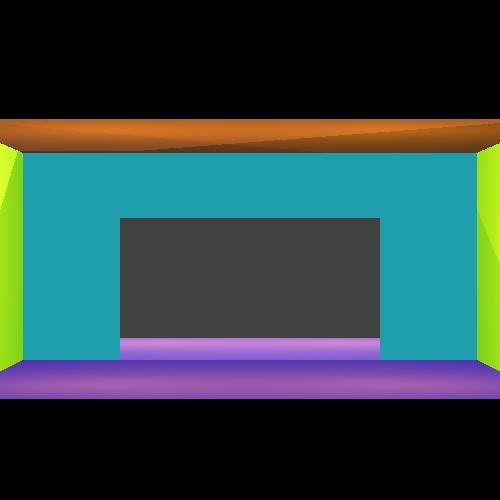
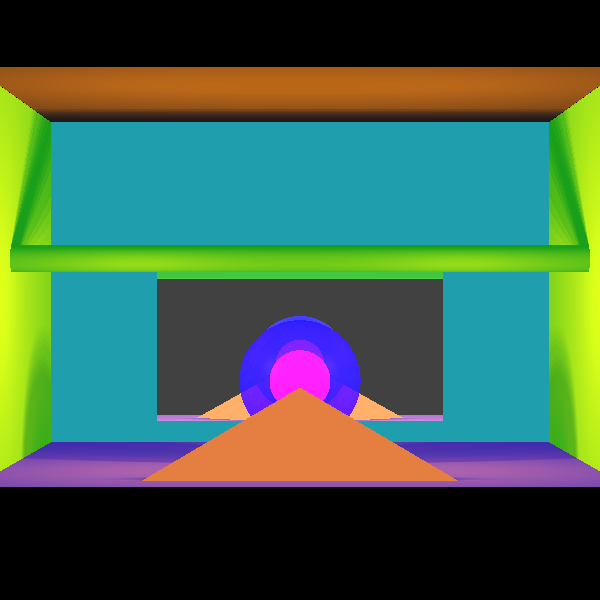
part of the final image completed

diff --git a/unitTests/miniProjects/SoftShadowTest.java b/unitTests/miniProjects/SoftShadowTest.java
@@ -316,7 +316,7 @@ public class SoftShadowTest {
     public void room() {
         Scene scene = new Scene.SceneBuilder("TestScene").build();
         Camera camera = new Camera(
-                        new Point(0, 500, 20),
+                        new Point(0, 550, 20),
                         new Vector(0, -1, 0),
                         new Vector(0, 0, 1))
                         .setVPSize(200, 200)
@@ -326,13 +326,63 @@ public class SoftShadowTest {
 
                 /////////           FLOOR                 ///////////
                 new Polygon(
-                        new Point(70,-40,-14),
-                        new Point(-70,-40,-14),
-                        new Point(-70,100,-14),
-                        new Point(70,100,-14))
+                        new Point(70,-40,-20),
+                        new Point(-70,-40,-20),
+                        new Point(-70,100,-20),
+                        new Point(70,100,-20))
                         .setEmission(new Color(0,0,74))
                         .setMaterial(new Material().setKd(1).setShininess(50))
                 ,
+
+                /////////             PYRAMID              ///////////
+
+                new Triangle(
+                        new Point(-35,85,-20),
+                        new Point(35,85,-20),
+                        new Point(0,70,0)
+                )
+                        .setEmission(new Color(100, 50, 20))
+                        .setMaterial(new Material().setKd(0.25).setKs(0.25).setShininess(20)),
+                new Triangle(
+                        new Point(-35,85,-20),
+                        new Point(0,55,-20),
+                        new Point(0,70,0)
+                )
+                        .setEmission(new Color(100, 50, 20))
+                        .setMaterial(new Material().setKd(0.25).setKs(0.25).setShininess(20)),
+                new Triangle(
+                        new Point(35,85,-20),
+                        new Point(0,55,-20),
+                        new Point(0,70,0)
+                )
+                        .setEmission(new Color(100, 50, 20))
+                        .setMaterial(new Material().setKd(0.25).setKs(0.25).setShininess(20)),
+
+
+                /////////            RANDOM BALLS          ///////////
+                new Sphere(
+                        15,
+                        new Point(0,30,0))
+                        .setEmission(new Color(BLUE))
+                        .setMaterial(new Material()
+                                .setKd(0.25)
+                                .setKs(0.25)
+                                .setShininess(20)
+                                .setKt(new Double3(0.5, 0, 0))
+                        )
+                        //.setMaterial(new Material().setKd(0.4).setKs(0.3).setShininess(100).setKt(0.3))
+                ,
+                new Sphere(
+                        7.5,
+                        new Point(0,30,0))
+                        .setEmission(new Color(RED))
+                        .setMaterial(new Material()
+                                .setKd(0.5)
+                                .setKs(0.5)
+                                .setShininess(100)
+                        )
+                ,
+
 
                 /////////           FLOOR - MIRROR                 ///////////
 //                new Polygon(
@@ -346,38 +396,51 @@ public class SoftShadowTest {
 
                 /////////           CEILING                 ///////////
                 new Polygon(
-                        new Point(70,-40,50),
-                        new Point(-70,-40,50),
-                        new Point(-70,100,50),
-                        new Point(70,100,50))
+                        new Point(70,-40,70),
+                        new Point(-70,-40,70),
+                        new Point(-70,100,70),
+                        new Point(70,100,70))
                         .setEmission(new Color(3,0,0))
                         .setMaterial(new Material().setKd(1).setKs(0).setShininess(50))
                 ,
 
                 /////////           WALLS                 ///////////
                 new Polygon(
-                        new Point(70,-40,-14),
-                        new Point(70,100,-14),
-                        new Point(70,100,50),
-                        new Point(70,-40,50))
+                        new Point(70,-40,-20),
+                        new Point(70,100,-20),
+                        new Point(70,100,70),
+                        new Point(70,-40,70))
                         .setEmission(new Color(0,67,0))
                         .setMaterial(new Material().setKd(1).setKs(0).setShininess(50))
                 ,
                 new Polygon(
-                        new Point(-70,-40,-14),
-                        new Point(-70,100,-14),
-                        new Point(-70,100,50),
-                        new Point(-70,-40,50))
+                        new Point(-70,-40,-20),
+                        new Point(-70,100,-20),
+                        new Point(-70,100,70),
+                        new Point(-70,-40,70))
                         .setEmission(new Color(0,67,0))
                         .setMaterial(new Material().setKd(1).setKs(0).setShininess(50))
                 ,
                 new Polygon(
-                        new Point(70,-40,-14),
-                        new Point(-70,-40,-14),
-                        new Point(-70,-40,50),
-                        new Point(70, -40, 50)).
+                        new Point(70,-40,-20),
+                        new Point(-70,-40,-20),
+                        new Point(-70,-40,70),
+                        new Point(70, -40, 70)).
                         setEmission(new Color(3,67,74))
                         .setMaterial(new Material()),
+                /////////          CYLINDER                ///////////
+
+                new Cylinder(
+                        3.25d,
+                        new Ray(
+                                new Point(70,40,30),
+                                new Vector(-1,0,0)
+                        ),
+                        140d
+                )
+                        .setEmission(new Color(0,67,0))
+                        .setMaterial(new Material().setKd(1).setKs(0).setShininess(50))
+                ,
 
                 /////////           MIRROR                 ///////////
                 new Polygon(
@@ -386,7 +449,8 @@ public class SoftShadowTest {
                         new Point(-40,-39,30),
                         new Point(40, -39, 30)).
                         setEmission(new Color(20, 20, 20))
-                        .setMaterial(new Material().setKr(1).setKs(0)));
+                        .setMaterial(new Material().setKr(1).setKs(0)))
+        ;
 
        /* for(int i = 0; i < 60; i++) {
             geometries.add(  pages.get(i)
@@ -409,7 +473,7 @@ public class SoftShadowTest {
                         new Color(100,50, 0),
                         new Point(-40, 60, 20)));
 
-        lightSources.add(
+        /*lightSources.add(
                 new DirectionalLight(
                         new Color(50,25, 0),
                         new Vector(-40, -60, 20)));
@@ -418,7 +482,7 @@ public class SoftShadowTest {
                 new DirectionalLight(
                         new Color(100,50, 33),
                         new Vector(0.8, -1, 0.5)));
-
+*/
         scene.geometries.add(geometries);
         scene.setLights(lightSources)
                 .setAmbientLight(new AmbientLight(new Color(java.awt.Color.WHITE), 0.1));
@@ -429,7 +493,7 @@ public class SoftShadowTest {
 
         render.renderImage();
         render.writeToImage();*/
-        camera.setImageWriter(new ImageWriter("room", 500, 500)) //
+        camera.setImageWriter(new ImageWriter("room", 600, 600)) //
                 .renderImage() //
                 .writeToImage();
     }

diff --git a/unitTests/renderer/ReflectionRefractionTests.java b/unitTests/renderer/ReflectionRefractionTests.java
@@ -38,7 +38,7 @@ public class ReflectionRefractionTests {
                 new SpotLight(new Color(1000, 600, 0), new Point(-100, -100, 500), new Vector(-1, -1, -2)) //
                         .setKl(0.0004).setKq(0.0000006));
 
-        camera.setImageWriter(new ImageWriter("refractionTwoSpheres", 500, 500)) //
+        camera.setImageWriter(new ImageWriter("refractionTwoSpheres-soft", 500, 500)) //
                 .setRayTracer(new RayTracerBasic(scene)) //
                 .renderImage() //
                 .writeToImage();
